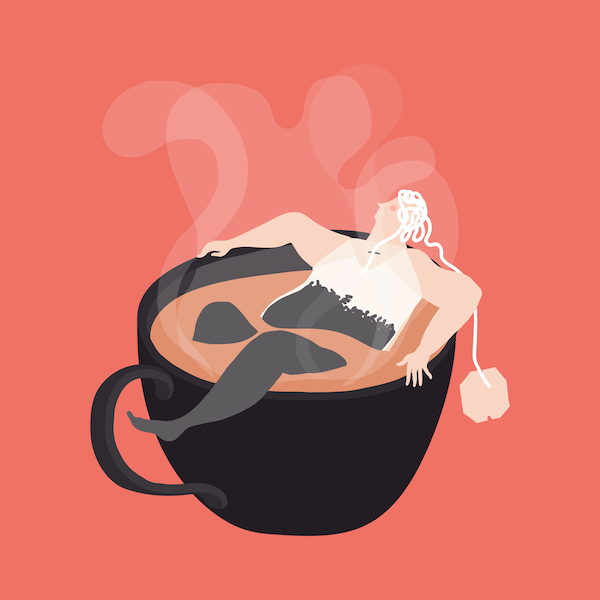
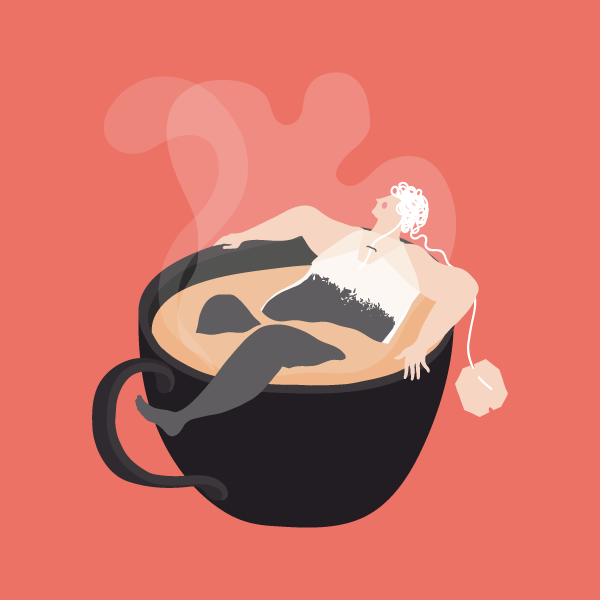
bubbles and night and day

diff --git a/index.html b/index.html
@@ -47,9 +47,9 @@
   <div class="grid-sizer"></div>
 
   <div class="item" style="position: absolute; left: 0px; top: 0px;">
-    <img src="img/side-people.png" alt="">
-      <div class="overlay" style="background-color:#052543">
-        <p class="title">Workers</p>
+    <img src="img/night-day.png" alt="">
+      <div class="overlay" style="background-color:#1B2B4E">
+        <p class="title">Night and Day</p>
       </div>
   </div>
 
@@ -182,12 +182,12 @@
       </div>
   </div>
 
-  <div class="item design" style="position: absolute; left: 0px; top: 1280px;">
-    <img src="img/charlie-pattern.png" alt="">
-      <div class="overlay" style="background-color:#3A9EFB">
+  <div class="item design" style="position: absolute; left: 640px; top: 6400px;">
+    <img src="img/bubbles.png" alt="">
+      <div class="overlay" style="background-color:#115DA2">
         <div class="design-description">
-          <h3 class="title-design">Charlie HR</h3>
-            <p class="description">Background patterns and dashboard illustrations to spruce up Charlie, a free HR platform for small businesses.</p>
+          <h3 class="title-design">Bubbles</h3>
+            <p class="description">Floating bubble ladies being brought to life. Personal work.</p>
         </div>
       </div>
   </div>
@@ -261,7 +261,7 @@
       </div>
   </div>
 
-    <div class="item design" style="position: absolute; left: 640px; top: 6400px;">
+  <div class="item design" style="position: absolute; left: 640px; top: 6400px;">
     <img src="img/app-idea-cards.jpg" alt="">
       <div class="overlay" style="background-color:#FECE53">
         <div class="design-description">
@@ -269,19 +269,19 @@
             <p class="description">An idea generation card game created for a <em>Get Started With Apps</em> course offered by The Prince's Trust.</p>
         </div>
       </div>
-  </div>  
+  </div>
 
-  <div class="item design" style="position: absolute; left: 0px; top: 5760px;">
-    <img src="img/unlease-how.png" alt="">
-      <div class="overlay" style="background-color:#0F4882">
+  <div class="item design" style="position: absolute; left: 0px; top: 1280px;">
+    <img src="img/charlie-pattern.png" alt="">
+      <div class="overlay" style="background-color:#3A9EFB">
         <div class="design-description">
-          <h3 class="title-design">Unlease</h3>
-            <p class="description">Illustrations to add some colour to the 'how-to' section of the Unlease website. Two different sets for both types of customers.</p>
+          <h3 class="title-design">Charlie HR</h3>
+            <p class="description">Background patterns and dashboard illustrations to spruce up Charlie, a free HR platform for small businesses.</p>
         </div>
       </div>
   </div>
 
-      <div class="item design" style="position: absolute; left: 640px; top: 2560px;">
+  <div class="item design" style="position: absolute; left: 640px; top: 2560px;">
     <img src="img/carte-mariage-map.jpg" alt="">
       <div class="overlay" style="background-color:#AFD9CB">
         <div class="design-description">
@@ -301,7 +301,6 @@
       </div>
   </div>
 
-
   <div class="item" style="position: absolute; left: 640px; top: 3840px;">
     <img src="img/e-meet.png" alt="">
       <div class="overlay" style="background-color:#DCDCE0">
@@ -315,8 +314,6 @@
         <p class="title">Opticians</p>
       </div>
   </div>
-
-
 
    <div class="item design" style="position: absolute; left: 640px; top: 6400px;">
     <img src="img/side-icons.png" alt="">
@@ -342,7 +339,7 @@
       </div>
   </div>
 
-   <div class="item design" style="position: absolute; left: 640px; top: 5760px;">
+  <div class="item design" style="position: absolute; left: 640px; top: 5760px;">
     <img src="img/made-by-milk.jpg" alt="">
       <div class="overlay" style="background-color:#779fff">
         <div class="design-description">
@@ -352,12 +349,12 @@
       </div>
   </div>
 
-  <div class="item design" style="position: absolute; left: 0px; top: 3840px;">
-    <img src="img/steer-open-evening.jpg" alt="">
-      <div class="overlay" style="background-color:#233A69">
+  <div class="item design" style="position: absolute; left: 0px; top: 5760px;">
+    <img src="img/unlease-how.png" alt="">
+      <div class="overlay" style="background-color:#0F4882">
         <div class="design-description">
-           <h3 class="title-design">Steer</h3>
-            <p class="description">Illustration and design for brochures outlining the syllabus for each course on offer at London code school Steer.</p>
+          <h3 class="title-design">Unlease</h3>
+             <p class="description">Illustrations to add some colour to the 'how-to' section of the Unlease website. Two different sets for both types of customers.</p>
         </div>
       </div>
   </div>
